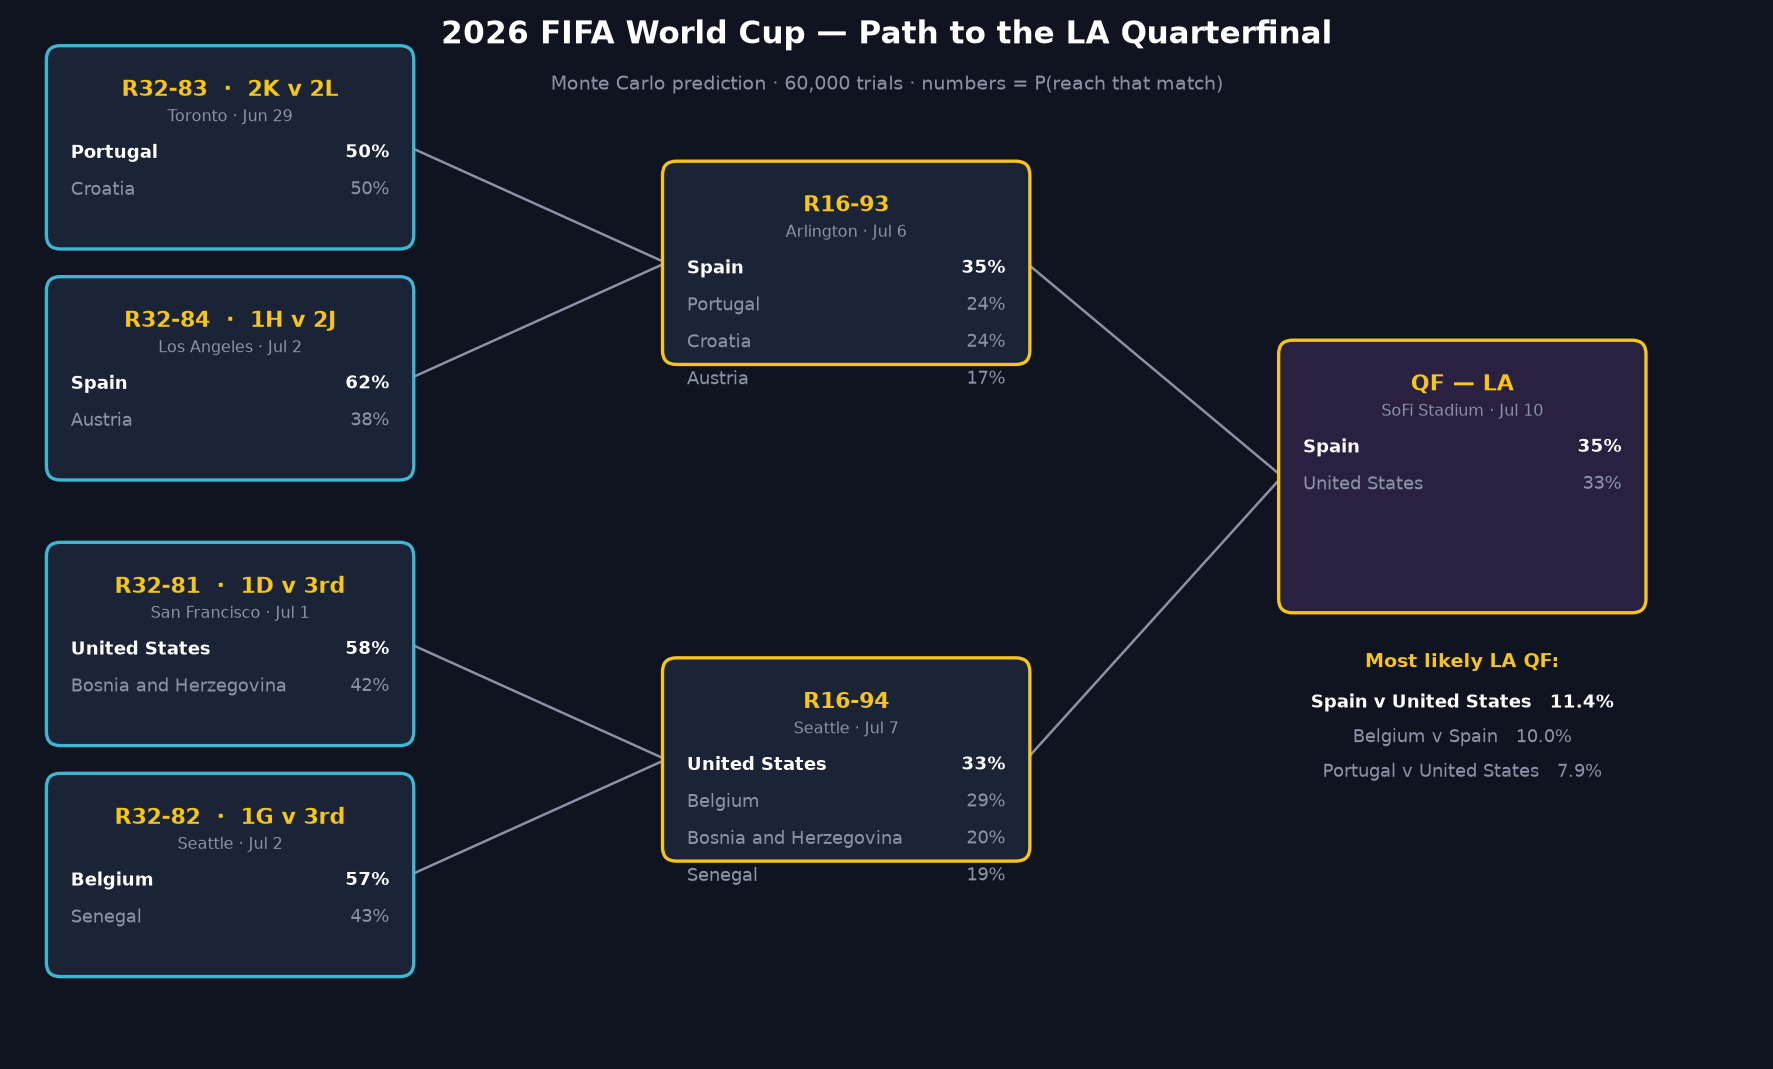
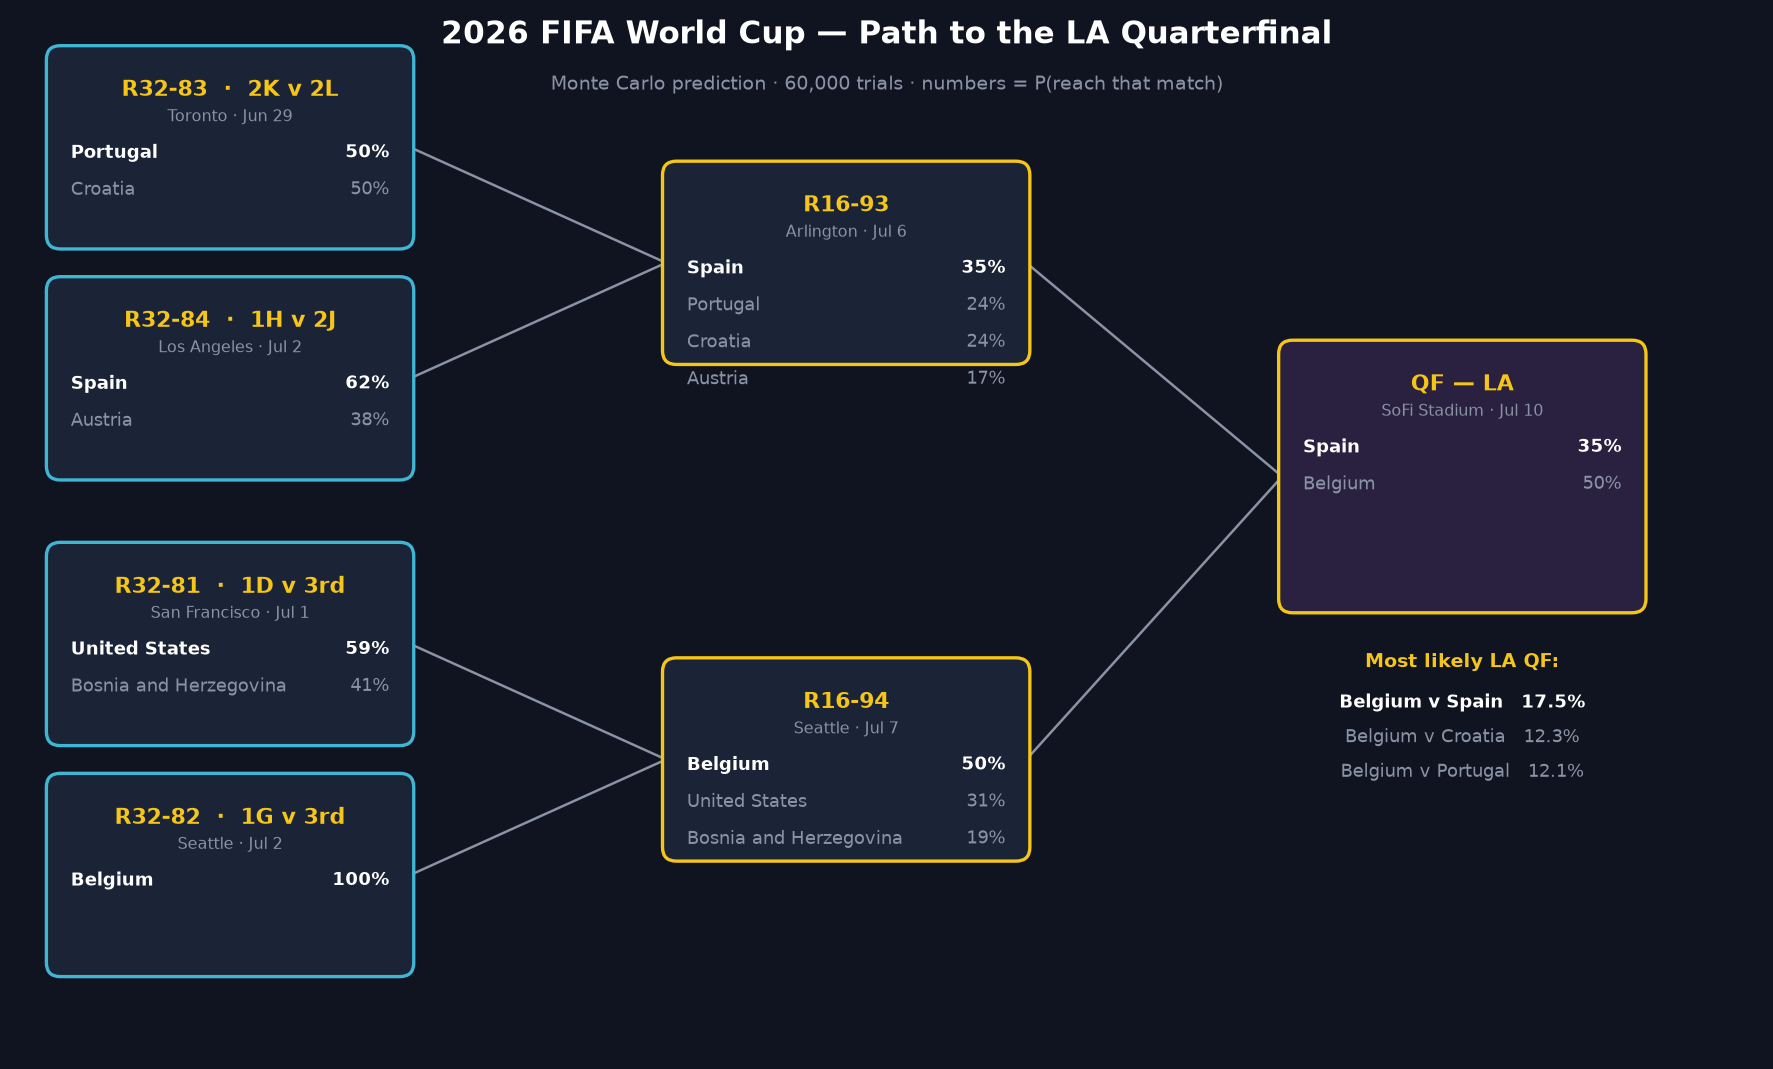
Record Belgium 3-2 Senegal R32 result; Belgium locked into R16-94

diff --git a/simulate.py b/simulate.py
@@ -19,7 +19,7 @@ import random
 from collections import defaultdict
 from typing import Dict, List, Tuple
 
-from bracket import BRACKET, THIRD_PLACE_POOLS, ALL_GROUPS, R32_ACTUAL_OPPONENTS
+from bracket import BRACKET, THIRD_PLACE_POOLS, ALL_GROUPS, R32_ACTUAL_OPPONENTS, COMPLETED_RESULTS
 
 N_TRIALS = 50_000
 
@@ -232,6 +232,13 @@ def run_simulation(standings: Dict[str, List[dict]]) -> tuple[Dict[str, float], 
             sb = node["slot_b"]
             team_a = get_slot(sa[0], sa[1])
             team_b = get_slot(sb[0], sb[1])
+            # Force the actual winner if this match has already been played.
+            match_id = node["match"].split()[0]
+            if match_id in COMPLETED_RESULTS:
+                winner = COMPLETED_RESULTS[match_id]
+                for t in (team_a, team_b):
+                    if t and t["team"] == winner:
+                        return t
             if not team_a or not team_b:
                 return team_a or team_b
             return simulate_match(team_a, team_b)

diff --git a/bracket_graphic.py b/bracket_graphic.py
@@ -10,7 +10,7 @@ import matplotlib.pyplot as plt
 from matplotlib.patches import FancyBboxPatch
 
 import simulate as S
-from bracket import BRACKET, ALL_GROUPS, R32_ACTUAL_OPPONENTS
+from bracket import BRACKET, ALL_GROUPS, R32_ACTUAL_OPPONENTS, COMPLETED_RESULTS
 
 N = 60_000
 S.N_TRIALS = N
@@ -41,6 +41,10 @@ for _ in range(N):
             c = [tbg[x] for x in list(g) if x in tbg]; return S.pick_best_third(c) if c else None
     def r32(n):
         a = slot(*n["slot_a"]); b = slot(*n["slot_b"])
+        mid = n["match"].split()[0]
+        if mid in COMPLETED_RESULTS:
+            for t in (a, b):
+                if t and t["team"] == COMPLETED_RESULTS[mid]: return t
         if not a or not b: return a or b
         return S.simulate_match(a, b)
     la = BRACKET["qf_la"]; A = la["r16_a"]; B = la["r16_b"]

diff --git a/bracket.py b/bracket.py
@@ -51,6 +51,12 @@ BRACKET = {
     }
 }
 
+# Completed knockout results — force the actual winner instead of simulating.
+# Keyed by match id (e.g. "R32-82"). Value is the winning team name.
+COMPLETED_RESULTS = {
+    "R32-82": "Belgium",   # Belgium 3-2 Senegal
+}
+
 # Confirmed R32 opponents (from actual bracket draw) with final group-stage records.
 # Overrides the generic "best 3rd-place" approximation once matchups are known.
 R32_ACTUAL_OPPONENTS = {
